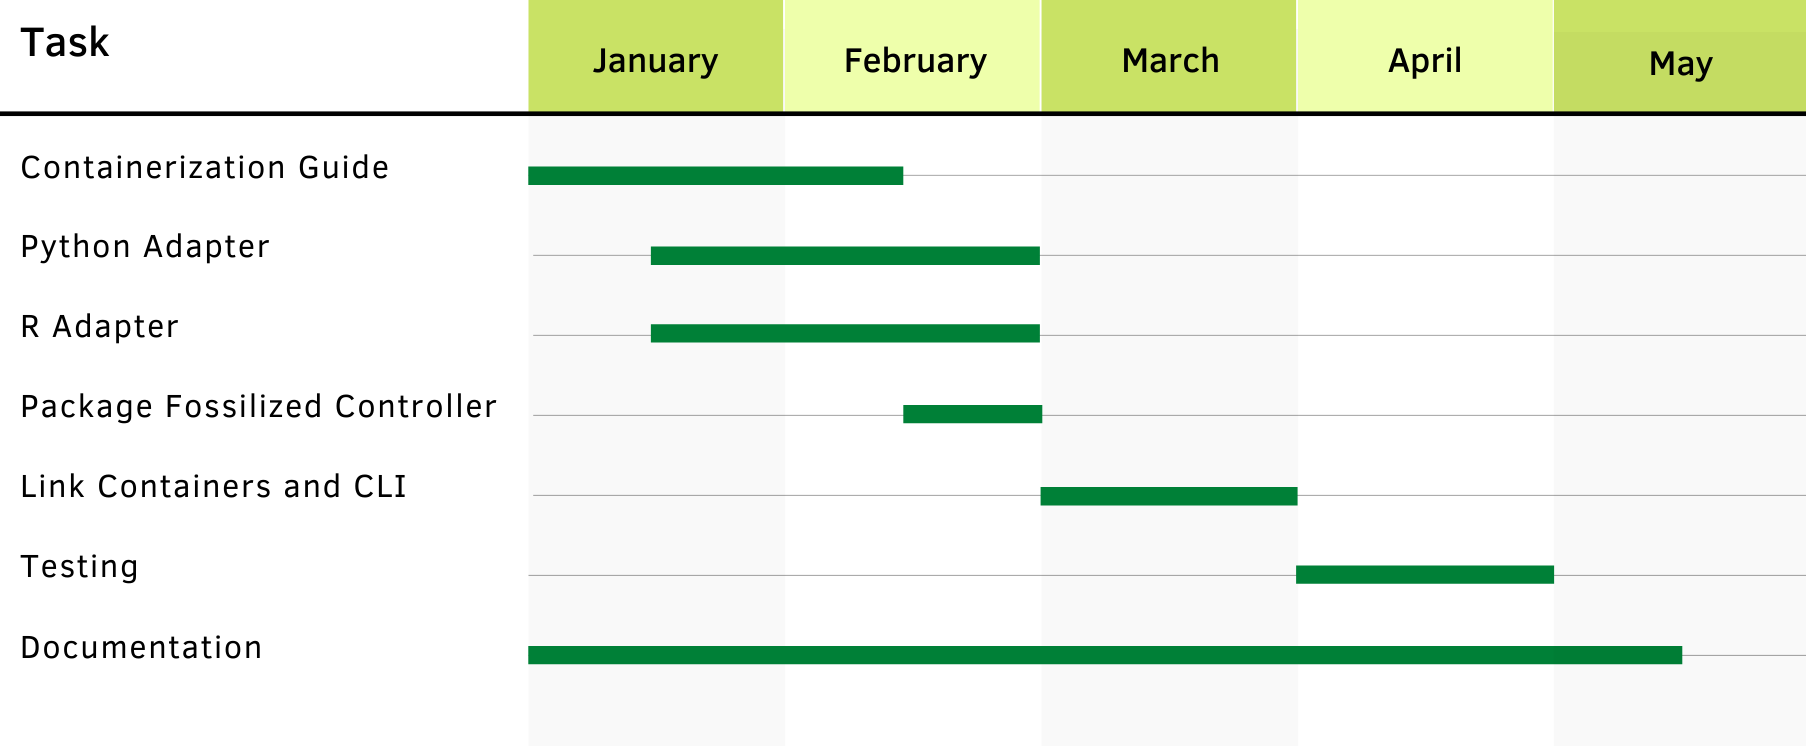
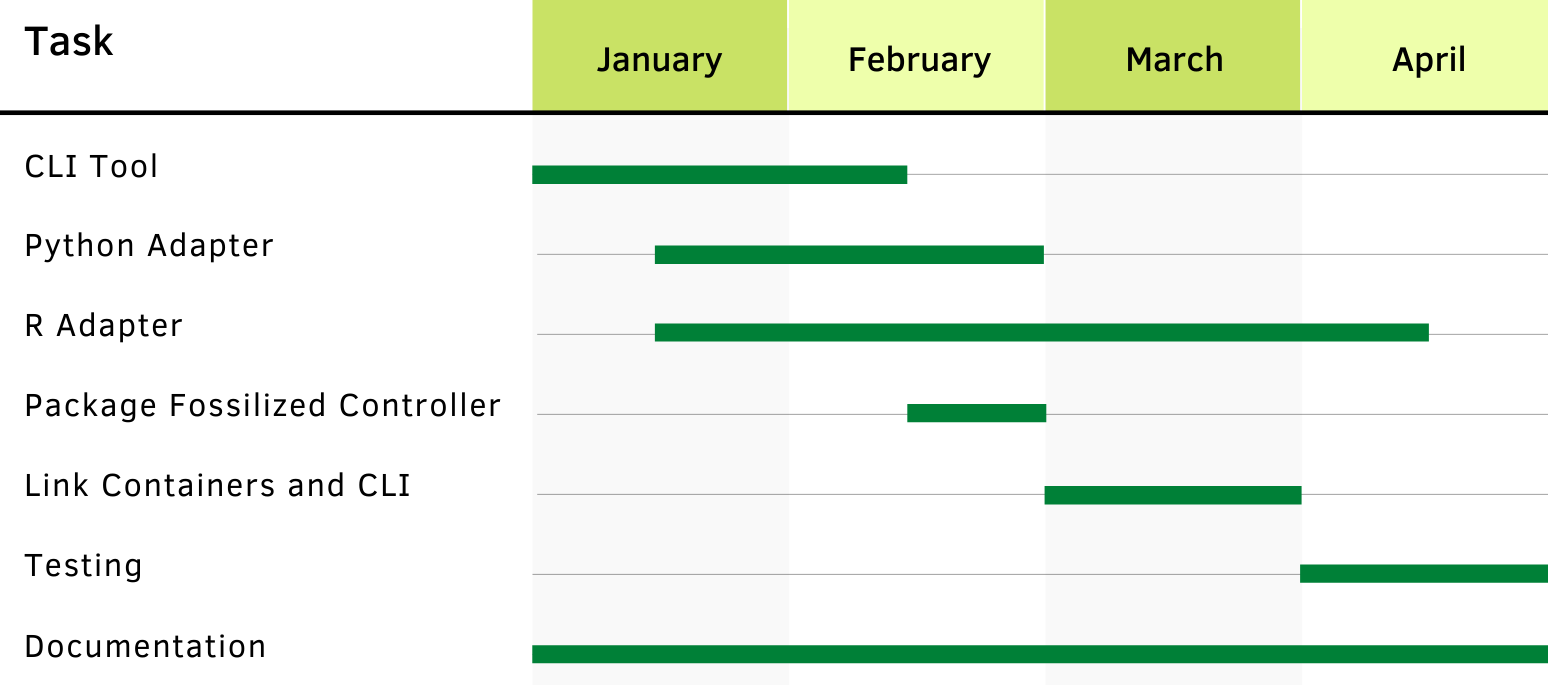
udpated schedule

diff --git a/solution.html b/solution.html
@@ -349,10 +349,9 @@
                 </div>
 
                 <h1 id="schedule" class="display-4"> Schedule </h1>
-                <iframe class="clickup-embed" src="https://sharing.clickup.com/14141301/g/h/dfhvn-520/d0dad26c3ce923b" onwheel="" width="100%" height="700px" style="background: transparent; border: 1px solid #ccc;"></iframe>
-                <p class="text-justify">
-                    We have remained on track for the Spring semester and have finished major development of the Fossilized Controller. The only things left to do are to finish the user testing portion. We are waiting for participants
-                    to share their feedback about the tool.
+                <img src="img/schedule.png" alt="Gantt Chart">
+                <p class="text-center">
+                    We have remained on track for the Spring semester and have finished major development of the Fossilized Controller.
                 </p>
 
 
